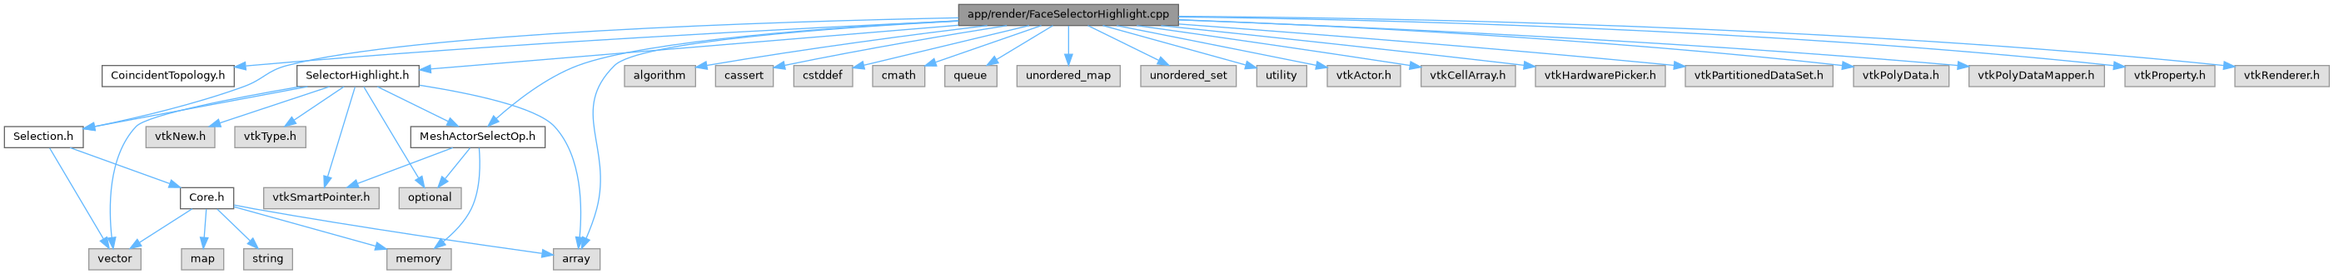
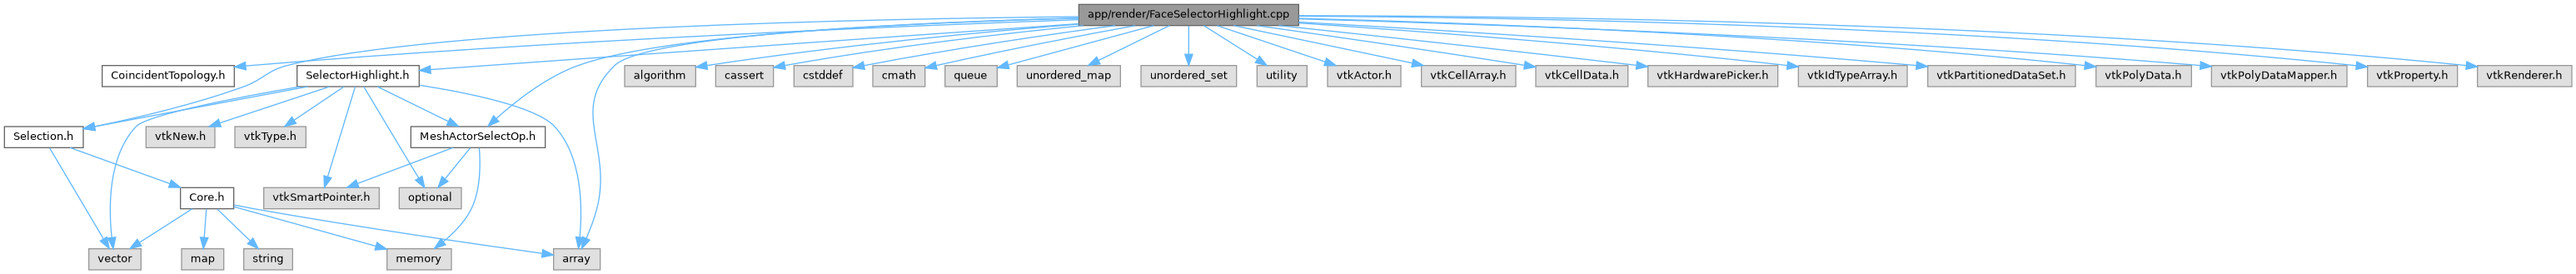
Deploying to gh-pages from @ a-ciue/PreCess@2c03c757ed190177bd64527af9a89cb0c99ad71f 🚀

Changed region(s): [[0.0, 0.0, 1.0, 1.0]]

diff --git a/MeshActor_8h_source.html b/MeshActor_8h_source.html
@@ -195,12 +195,12 @@ $(function() {
 <div class="ttc" id="aIAttributeRenderStrategy_8h_html"><div class="ttname"><a href="IAttributeRenderStrategy_8h.html">IAttributeRenderStrategy.h</a></div></div>
 <div class="ttc" id="aclassAttributeOperator_html"><div class="ttname"><a href="classAttributeOperator.html">AttributeOperator</a></div><div class="ttdoc">属性操作类，提供对MeshActor中各类数据和Mapper、Actor的访问接口</div><div class="ttdef"><b>定义</b> AttributeOperator.h:11</div></div>
 <div class="ttc" id="aclassMeshActorSelectOp_html"><div class="ttname"><a href="classMeshActorSelectOp.html">MeshActorSelectOp</a></div><div class="ttdoc">MeshActor在选择过程中的操作类，作为临时对象使用</div><div class="ttdef"><b>定义</b> MeshActorSelectOp.h:36</div></div>
-<div class="ttc" id="aclassMeshActor_html_a08e40a529ad491478178c2a8c38d1b37"><div class="ttname"><a href="classMeshActor.html#a08e40a529ad491478178c2a8c38d1b37">MeshActor::_createSolidUGird</a></div><div class="ttdeci">static void _createSolidUGird(const MeshDataVtk &amp;model_data, vtkPoints &amp;points, vtkUnstructuredGrid &amp;solid_data)</div><div class="ttdef"><b>定义</b> MeshActor.cpp:390</div></div>
+<div class="ttc" id="aclassMeshActor_html_a08e40a529ad491478178c2a8c38d1b37"><div class="ttname"><a href="classMeshActor.html#a08e40a529ad491478178c2a8c38d1b37">MeshActor::_createSolidUGird</a></div><div class="ttdeci">static void _createSolidUGird(const MeshDataVtk &amp;model_data, vtkPoints &amp;points, vtkUnstructuredGrid &amp;solid_data)</div><div class="ttdef"><b>定义</b> MeshActor.cpp:403</div></div>
 <div class="ttc" id="aclassMeshActor_html_a091cfe29cd9274e75e1f5888de353e0d"><div class="ttname"><a href="classMeshActor.html#a091cfe29cd9274e75e1f5888de353e0d">MeshActor::renderer_</a></div><div class="ttdeci">vtkRenderer * renderer_</div><div class="ttdef"><b>定义</b> MeshActor.h:115</div></div>
 <div class="ttc" id="aclassMeshActor_html_a0d2963941ccf1bb771df32f01a683a74"><div class="ttname"><a href="classMeshActor.html#a0d2963941ccf1bb771df32f01a683a74">MeshActor::MeshActor</a></div><div class="ttdeci">MeshActor(vtkRenderer *renderer, vtkPoints *global_points)</div><div class="ttdef"><b>定义</b> MeshActor.cpp:117</div></div>
 <div class="ttc" id="aclassMeshActor_html_a14a89f48668fa2c4f5b421e9c2e9cda5"><div class="ttname"><a href="classMeshActor.html#a14a89f48668fa2c4f5b421e9c2e9cda5">MeshActor::MeshActorSelectOp</a></div><div class="ttdeci">friend MeshActorSelectOp</div><div class="ttdef"><b>定义</b> MeshActor.h:34</div></div>
 <div class="ttc" id="aclassMeshActor_html_a19805d0c0e844a809f0bbb4e67bd48bf"><div class="ttname"><a href="classMeshActor.html#a19805d0c0e844a809f0bbb4e67bd48bf">MeshActor::edge_clipper_</a></div><div class="ttdeci">vtkNew&lt; vtkExtractPolyDataGeometry &gt; edge_clipper_</div><div class="ttdef"><b>定义</b> MeshActor.h:87</div></div>
-<div class="ttc" id="aclassMeshActor_html_a1b72ea664e95655da04569384dc7f065"><div class="ttname"><a href="classMeshActor.html#a1b72ea664e95655da04569384dc7f065">MeshActor::setRenderStrategy</a></div><div class="ttdeci">void setRenderStrategy(std::unique_ptr&lt; IAttributeRenderStrategy &gt; strategy)</div><div class="ttdoc">设置渲染策略</div><div class="ttdef"><b>定义</b> MeshActor.cpp:444</div></div>
+<div class="ttc" id="aclassMeshActor_html_a1b72ea664e95655da04569384dc7f065"><div class="ttname"><a href="classMeshActor.html#a1b72ea664e95655da04569384dc7f065">MeshActor::setRenderStrategy</a></div><div class="ttdeci">void setRenderStrategy(std::unique_ptr&lt; IAttributeRenderStrategy &gt; strategy)</div><div class="ttdoc">设置渲染策略</div><div class="ttdef"><b>定义</b> MeshActor.cpp:457</div></div>
 <div class="ttc" id="aclassMeshActor_html_a1c92ec567feff7d84e25fd825da2d0af"><div class="ttname"><a href="classMeshActor.html#a1c92ec567feff7d84e25fd825da2d0af">MeshActor::face_cell_centers_</a></div><div class="ttdeci">vtkNew&lt; vtkPolyData &gt; face_cell_centers_</div><div class="ttdef"><b>定义</b> MeshActor.h:109</div></div>
 <div class="ttc" id="aclassMeshActor_html_a1f2a7b61a383143395c2df36655e7a50"><div class="ttname"><a href="classMeshActor.html#a1f2a7b61a383143395c2df36655e7a50">MeshActor::render_strategy_</a></div><div class="ttdeci">std::unique_ptr&lt; IAttributeRenderStrategy &gt; render_strategy_</div><div class="ttdef"><b>定义</b> MeshActor.h:81</div></div>
 <div class="ttc" id="aclassMeshActor_html_a21ef1656d52d5ce899fa1cafe2ea1bd2"><div class="ttname"><a href="classMeshActor.html#a21ef1656d52d5ce899fa1cafe2ea1bd2">MeshActor::~MeshActor</a></div><div class="ttdeci">~MeshActor()</div><div class="ttdef"><b>定义</b> MeshActor.cpp:141</div></div>
@@ -209,21 +209,21 @@ $(function() {
 <div class="ttc" id="aclassMeshActor_html_a3219e67668babcb42b25490ce9cbd757"><div class="ttname"><a href="classMeshActor.html#a3219e67668babcb42b25490ce9cbd757">MeshActor::solid_actor_</a></div><div class="ttdeci">vtkNew&lt; vtkActor &gt; solid_actor_</div><div class="ttdef"><b>定义</b> MeshActor.h:99</div></div>
 <div class="ttc" id="aclassMeshActor_html_a4450097e60e604999bf9895eac4829ef"><div class="ttname"><a href="classMeshActor.html#a4450097e60e604999bf9895eac4829ef">MeshActor::visibility_</a></div><div class="ttdeci">bool visibility_</div><div class="ttdef"><b>定义</b> MeshActor.h:83</div></div>
 <div class="ttc" id="aclassMeshActor_html_a455e99ee83a81dd1c396e0104294f955"><div class="ttname"><a href="classMeshActor.html#a455e99ee83a81dd1c396e0104294f955">MeshActor::solid_edge_extractor_</a></div><div class="ttdeci">vtkNew&lt; vtkExtractEdges &gt; solid_edge_extractor_</div><div class="ttdef"><b>定义</b> MeshActor.h:92</div></div>
-<div class="ttc" id="aclassMeshActor_html_a64c57941dca1731223759b114865d354"><div class="ttname"><a href="classMeshActor.html#a64c57941dca1731223759b114865d354">MeshActor::setRenderStyle</a></div><div class="ttdeci">void setRenderStyle(MeshRenderStyle style)</div><div class="ttdef"><b>定义</b> MeshActor.cpp:282</div></div>
+<div class="ttc" id="aclassMeshActor_html_a64c57941dca1731223759b114865d354"><div class="ttname"><a href="classMeshActor.html#a64c57941dca1731223759b114865d354">MeshActor::setRenderStyle</a></div><div class="ttdeci">void setRenderStyle(MeshRenderStyle style)</div><div class="ttdef"><b>定义</b> MeshActor.cpp:295</div></div>
 <div class="ttc" id="aclassMeshActor_html_a68312c4c4f435e9dcb98ad9c455fecef"><div class="ttname"><a href="classMeshActor.html#a68312c4c4f435e9dcb98ad9c455fecef">MeshActor::face_actor_</a></div><div class="ttdeci">vtkNew&lt; vtkActor &gt; face_actor_</div><div class="ttdef"><b>定义</b> MeshActor.h:100</div></div>
 <div class="ttc" id="aclassMeshActor_html_a697071c9b72ff73137641b9cf68d4ff7"><div class="ttname"><a href="classMeshActor.html#a697071c9b72ff73137641b9cf68d4ff7">MeshActor::solid_clipper_</a></div><div class="ttdeci">vtkNew&lt; vtkExtractGeometry &gt; solid_clipper_</div><div class="ttdef"><b>定义</b> MeshActor.h:89</div></div>
 <div class="ttc" id="aclassMeshActor_html_a70be0e3ea4dc333f6454667209f68f98"><div class="ttname"><a href="classMeshActor.html#a70be0e3ea4dc333f6454667209f68f98">MeshActor::loadModelData</a></div><div class="ttdeci">void loadModelData(const MeshDataVtk &amp;model_data)</div><div class="ttdef"><b>定义</b> MeshActor.cpp:151</div></div>
 <div class="ttc" id="aclassMeshActor_html_a77d183db5363426d681904313ab57144"><div class="ttname"><a href="classMeshActor.html#a77d183db5363426d681904313ab57144">MeshActor::solid_filter_</a></div><div class="ttdeci">vtkNew&lt; vtkGeometryFilter &gt; solid_filter_</div><div class="ttdef"><b>定义</b> MeshActor.h:91</div></div>
 <div class="ttc" id="aclassMeshActor_html_a780070ae950cbd0e2799be889fe9b5f5"><div class="ttname"><a href="classMeshActor.html#a780070ae950cbd0e2799be889fe9b5f5">MeshActor::colors</a></div><div class="ttdeci">static vtkNew&lt; vtkNamedColors &gt; colors</div><div class="ttdef"><b>定义</b> MeshActor.h:39</div></div>
-<div class="ttc" id="aclassMeshActor_html_a7989eba2f4be427fe6f87bdc00e7f670"><div class="ttname"><a href="classMeshActor.html#a7989eba2f4be427fe6f87bdc00e7f670">MeshActor::renderAttribute</a></div><div class="ttdeci">void renderAttribute(const std::string &amp;attr_name, std::map&lt; std::string, std::any &gt; args)</div><div class="ttdoc">渲染属性</div><div class="ttdef"><b>定义</b> MeshActor.cpp:449</div></div>
+<div class="ttc" id="aclassMeshActor_html_a7989eba2f4be427fe6f87bdc00e7f670"><div class="ttname"><a href="classMeshActor.html#a7989eba2f4be427fe6f87bdc00e7f670">MeshActor::renderAttribute</a></div><div class="ttdeci">void renderAttribute(const std::string &amp;attr_name, std::map&lt; std::string, std::any &gt; args)</div><div class="ttdoc">渲染属性</div><div class="ttdef"><b>定义</b> MeshActor.cpp:462</div></div>
 <div class="ttc" id="aclassMeshActor_html_a85f7b5b251069428e1ee0a8da09c7b27"><div class="ttname"><a href="classMeshActor.html#a85f7b5b251069428e1ee0a8da09c7b27">MeshActor::solid_data_</a></div><div class="ttdeci">vtkNew&lt; vtkUnstructuredGrid &gt; solid_data_</div><div class="ttdef"><b>定义</b> MeshActor.h:104</div></div>
-<div class="ttc" id="aclassMeshActor_html_a870cd1059f6d3e15b5ca4681cc4762dc"><div class="ttname"><a href="classMeshActor.html#a870cd1059f6d3e15b5ca4681cc4762dc">MeshActor::setClipPlane</a></div><div class="ttdeci">void setClipPlane(vtkPlane *plane)</div><div class="ttdoc">设置或取消裁剪平面</div><div class="ttdef"><b>定义</b> MeshActor.cpp:259</div></div>
+<div class="ttc" id="aclassMeshActor_html_a870cd1059f6d3e15b5ca4681cc4762dc"><div class="ttname"><a href="classMeshActor.html#a870cd1059f6d3e15b5ca4681cc4762dc">MeshActor::setClipPlane</a></div><div class="ttdeci">void setClipPlane(vtkPlane *plane)</div><div class="ttdoc">设置或取消裁剪平面</div><div class="ttdef"><b>定义</b> MeshActor.cpp:272</div></div>
 <div class="ttc" id="aclassMeshActor_html_a91bee7bb17cd1d38a1dfc29296b6ecf6"><div class="ttname"><a href="classMeshActor.html#a91bee7bb17cd1d38a1dfc29296b6ecf6">MeshActor::original_point_ids_</a></div><div class="ttdeci">vtkNew&lt; vtkIdTypeArray &gt; original_point_ids_</div><div class="ttdef"><b>定义</b> MeshActor.h:118</div></div>
 <div class="ttc" id="aclassMeshActor_html_a9ff1e5f70b3cf8a2ab4cb14f55e47532"><div class="ttname"><a href="classMeshActor.html#a9ff1e5f70b3cf8a2ab4cb14f55e47532">MeshActor::solid_cell_centers_</a></div><div class="ttdeci">vtkNew&lt; vtkPolyData &gt; solid_cell_centers_</div><div class="ttdef"><b>定义</b> MeshActor.h:111</div></div>
 <div class="ttc" id="aclassMeshActor_html_aa41c3951fe0448bf88ba389b30a7357c"><div class="ttname"><a href="classMeshActor.html#aa41c3951fe0448bf88ba389b30a7357c">MeshActor::face_attribute_offset_</a></div><div class="ttdeci">FaceAttributeOffsetState face_attribute_offset_</div><div class="ttdef"><b>定义</b> MeshActor.h:113</div></div>
-<div class="ttc" id="aclassMeshActor_html_ab0a3a1a69b1c3b4fe0d1bf539874baf4"><div class="ttname"><a href="classMeshActor.html#ab0a3a1a69b1c3b4fe0d1bf539874baf4">MeshActor::getRenderStyle</a></div><div class="ttdeci">MeshRenderStyle getRenderStyle() const</div><div class="ttdef"><b>定义</b> MeshActor.cpp:288</div></div>
+<div class="ttc" id="aclassMeshActor_html_ab0a3a1a69b1c3b4fe0d1bf539874baf4"><div class="ttname"><a href="classMeshActor.html#ab0a3a1a69b1c3b4fe0d1bf539874baf4">MeshActor::getRenderStyle</a></div><div class="ttdeci">MeshRenderStyle getRenderStyle() const</div><div class="ttdef"><b>定义</b> MeshActor.cpp:301</div></div>
 <div class="ttc" id="aclassMeshActor_html_ab0bc13100593d5a6e211fb88fc51ebcf"><div class="ttname"><a href="classMeshActor.html#ab0bc13100593d5a6e211fb88fc51ebcf">MeshActor::edge_mapper_</a></div><div class="ttdeci">vtkNew&lt; vtkPolyDataMapper &gt; edge_mapper_</div><div class="ttdef"><b>定义</b> MeshActor.h:94</div></div>
-<div class="ttc" id="aclassMeshActor_html_ab282e66574859c8e77ed021be2903cfa"><div class="ttname"><a href="classMeshActor.html#ab282e66574859c8e77ed021be2903cfa">MeshActor::isVisible</a></div><div class="ttdeci">bool isVisible() const</div><div class="ttdef"><b>定义</b> MeshActor.cpp:254</div></div>
+<div class="ttc" id="aclassMeshActor_html_ab282e66574859c8e77ed021be2903cfa"><div class="ttname"><a href="classMeshActor.html#ab282e66574859c8e77ed021be2903cfa">MeshActor::isVisible</a></div><div class="ttdeci">bool isVisible() const</div><div class="ttdef"><b>定义</b> MeshActor.cpp:267</div></div>
 <div class="ttc" id="aclassMeshActor_html_ac1012183fbcf30628db40de715822957"><div class="ttname"><a href="classMeshActor.html#ac1012183fbcf30628db40de715822957">MeshActor::edge_actor_</a></div><div class="ttdeci">vtkNew&lt; vtkActor &gt; edge_actor_</div><div class="ttdef"><b>定义</b> MeshActor.h:101</div></div>
 <div class="ttc" id="aclassMeshActor_html_ac25f309b6193f4dee2fc8b15286bf4e4"><div class="ttname"><a href="classMeshActor.html#ac25f309b6193f4dee2fc8b15286bf4e4">MeshActor::model_data_</a></div><div class="ttdeci">std::unique_ptr&lt; MeshDataVtk &gt; model_data_</div><div class="ttdef"><b>定义</b> MeshActor.h:84</div></div>
 <div class="ttc" id="aclassMeshActor_html_ac380af301cd858ea21543c6776a24e14"><div class="ttname"><a href="classMeshActor.html#ac380af301cd858ea21543c6776a24e14">MeshActor::randomSequence</a></div><div class="ttdeci">static vtkNew&lt; vtkMinimalStandardRandomSequence &gt; randomSequence</div><div class="ttdef"><b>定义</b> MeshActor.h:38</div></div>
@@ -232,13 +232,13 @@ $(function() {
 <div class="ttc" id="aclassMeshActor_html_ace16406699e97aad5866e3e3b97c0eb5"><div class="ttname"><a href="classMeshActor.html#ace16406699e97aad5866e3e3b97c0eb5">MeshActor::face_clipper_</a></div><div class="ttdeci">vtkNew&lt; vtkExtractPolyDataGeometry &gt; face_clipper_</div><div class="ttdef"><b>定义</b> MeshActor.h:88</div></div>
 <div class="ttc" id="aclassMeshActor_html_ad45e336f5faa03a16caab4b00f840683"><div class="ttname"><a href="classMeshActor.html#ad45e336f5faa03a16caab4b00f840683">MeshActor::glyph3D_actor_</a></div><div class="ttdeci">vtkNew&lt; vtkActor &gt; glyph3D_actor_</div><div class="ttdef"><b>定义</b> MeshActor.h:102</div></div>
 <div class="ttc" id="aclassMeshActor_html_ad5804447e55239cf19a4d4713d4f18c1"><div class="ttname"><a href="classMeshActor.html#ad5804447e55239cf19a4d4713d4f18c1">MeshActor::AttributeOperator</a></div><div class="ttdeci">friend AttributeOperator</div><div class="ttdef"><b>定义</b> MeshActor.h:35</div></div>
-<div class="ttc" id="aclassMeshActor_html_ad6323d9128d99c7a608a7913bfc496da"><div class="ttname"><a href="classMeshActor.html#ad6323d9128d99c7a608a7913bfc496da">MeshActor::ensureOriginalPointIds</a></div><div class="ttdeci">void ensureOriginalPointIds()</div><div class="ttdef"><b>定义</b> MeshActor.cpp:459</div></div>
+<div class="ttc" id="aclassMeshActor_html_ad6323d9128d99c7a608a7913bfc496da"><div class="ttname"><a href="classMeshActor.html#ad6323d9128d99c7a608a7913bfc496da">MeshActor::ensureOriginalPointIds</a></div><div class="ttdeci">void ensureOriginalPointIds()</div><div class="ttdef"><b>定义</b> MeshActor.cpp:472</div></div>
 <div class="ttc" id="aclassMeshActor_html_adc5a88c786013abf18f4244fbf9ed74a"><div class="ttname"><a href="classMeshActor.html#adc5a88c786013abf18f4244fbf9ed74a">MeshActor::style_</a></div><div class="ttdeci">MeshRenderStyle style_</div><div class="ttdef"><b>定义</b> MeshActor.h:82</div></div>
-<div class="ttc" id="aclassMeshActor_html_adf6ab9d3e2278feb471c0fd00f6e8806"><div class="ttname"><a href="classMeshActor.html#adf6ab9d3e2278feb471c0fd00f6e8806">MeshActor::setVisibility</a></div><div class="ttdeci">void setVisibility(bool visibility)</div><div class="ttdef"><b>定义</b> MeshActor.cpp:248</div></div>
-<div class="ttc" id="aclassMeshActor_html_adfebe3e1e9a07ae8ed70461a91a20d91"><div class="ttname"><a href="classMeshActor.html#adfebe3e1e9a07ae8ed70461a91a20d91">MeshActor::applyStyle</a></div><div class="ttdeci">void applyStyle()</div><div class="ttdef"><b>定义</b> MeshActor.cpp:293</div></div>
+<div class="ttc" id="aclassMeshActor_html_adf6ab9d3e2278feb471c0fd00f6e8806"><div class="ttname"><a href="classMeshActor.html#adf6ab9d3e2278feb471c0fd00f6e8806">MeshActor::setVisibility</a></div><div class="ttdeci">void setVisibility(bool visibility)</div><div class="ttdef"><b>定义</b> MeshActor.cpp:261</div></div>
+<div class="ttc" id="aclassMeshActor_html_adfebe3e1e9a07ae8ed70461a91a20d91"><div class="ttname"><a href="classMeshActor.html#adfebe3e1e9a07ae8ed70461a91a20d91">MeshActor::applyStyle</a></div><div class="ttdeci">void applyStyle()</div><div class="ttdef"><b>定义</b> MeshActor.cpp:306</div></div>
 <div class="ttc" id="aclassMeshActor_html_aeea019c4c105bbd7e7b37f2e1043c6a3"><div class="ttname"><a href="classMeshActor.html#aeea019c4c105bbd7e7b37f2e1043c6a3">MeshActor::edge_data_</a></div><div class="ttdeci">vtkNew&lt; vtkPolyData &gt; edge_data_</div><div class="ttdef"><b>定义</b> MeshActor.h:106</div></div>
 <div class="ttc" id="aclassMeshActor_html_aef69d9e95a452055e5c9f268b386a933"><div class="ttname"><a href="classMeshActor.html#aef69d9e95a452055e5c9f268b386a933">MeshActor::clip_plane_</a></div><div class="ttdeci">vtkPlane * clip_plane_</div><div class="ttdef"><b>定义</b> MeshActor.h:86</div></div>
-<div class="ttc" id="aclassMeshActor_html_afa6c6e17e6a1d5c6abf292f4780ace5f"><div class="ttname"><a href="classMeshActor.html#afa6c6e17e6a1d5c6abf292f4780ace5f">MeshActor::cancelActiveAttribute</a></div><div class="ttdeci">void cancelActiveAttribute()</div><div class="ttdoc">取消属性渲染</div><div class="ttdef"><b>定义</b> MeshActor.cpp:436</div></div>
+<div class="ttc" id="aclassMeshActor_html_afa6c6e17e6a1d5c6abf292f4780ace5f"><div class="ttname"><a href="classMeshActor.html#afa6c6e17e6a1d5c6abf292f4780ace5f">MeshActor::cancelActiveAttribute</a></div><div class="ttdeci">void cancelActiveAttribute()</div><div class="ttdoc">取消属性渲染</div><div class="ttdef"><b>定义</b> MeshActor.cpp:449</div></div>
 <div class="ttc" id="aclassMeshActor_html_afc7ff6f3770c7a24f6cf6569416c31c1"><div class="ttname"><a href="classMeshActor.html#afc7ff6f3770c7a24f6cf6569416c31c1">MeshActor::global_points_</a></div><div class="ttdeci">vtkPoints * global_points_</div><div class="ttdef"><b>定义</b> MeshActor.h:117</div></div>
 <div class="ttc" id="astructFaceAttributeOffsetState_html"><div class="ttname"><a href="structFaceAttributeOffsetState.html">FaceAttributeOffsetState</a></div><div class="ttdef"><b>定义</b> MeshActor.h:26</div></div>
 <div class="ttc" id="astructFaceAttributeOffsetState_html_a14c9b6dd916114728a521eb571e829d7"><div class="ttname"><a href="structFaceAttributeOffsetState.html#a14c9b6dd916114728a521eb571e829d7">FaceAttributeOffsetState::units</a></div><div class="ttdeci">double units</div><div class="ttdef"><b>定义</b> MeshActor.h:29</div></div>

diff --git a/SelectorHighlight_8h_source.html b/SelectorHighlight_8h_source.html
@@ -268,23 +268,23 @@ $(function() {
 <div class="ttc" id="aclassEdgeSelectorHighlight_html_af71996a5002742103866e5c826479d0f"><div class="ttname"><a href="classEdgeSelectorHighlight.html#af71996a5002742103866e5c826479d0f">EdgeSelectorHighlight::clear</a></div><div class="ttdeci">void clear() override</div><div class="ttdoc">清空选中元素，并取消高亮</div><div class="ttdef"><b>定义</b> EdgeSelectorHighlight.cpp:70</div></div>
 <div class="ttc" id="aclassEdgeSelectorHighlight_html_afa6bafa87e80b347e5c5c03124dce5e7"><div class="ttname"><a href="classEdgeSelectorHighlight.html#afa6bafa87e80b347e5c5c03124dce5e7">EdgeSelectorHighlight::select</a></div><div class="ttdeci">void select(double posx, double posy) override</div><div class="ttdef"><b>定义</b> EdgeSelectorHighlight.cpp:118</div></div>
 <div class="ttc" id="aclassEdgeSelectorHighlight_html_afdb85c28368cd8fcdf956cfcf34e693e"><div class="ttname"><a href="classEdgeSelectorHighlight.html#afdb85c28368cd8fcdf956cfcf34e693e">EdgeSelectorHighlight::~EdgeSelectorHighlight</a></div><div class="ttdeci">~EdgeSelectorHighlight() override</div><div class="ttdef"><b>定义</b> EdgeSelectorHighlight.cpp:65</div></div>
-<div class="ttc" id="aclassFaceSelectorHighlight_html_a0ce421062d227f6ad53c9f5d9d9b61ff"><div class="ttname"><a href="classFaceSelectorHighlight.html#a0ce421062d227f6ad53c9f5d9d9b61ff">FaceSelectorHighlight::enableHighlight</a></div><div class="ttdeci">void enableHighlight() override</div><div class="ttdoc">从保留的选择数据重新下发 partition 高亮</div><div class="ttdef"><b>定义</b> FaceSelectorHighlight.cpp:235</div></div>
+<div class="ttc" id="aclassFaceSelectorHighlight_html_a0ce421062d227f6ad53c9f5d9d9b61ff"><div class="ttname"><a href="classFaceSelectorHighlight.html#a0ce421062d227f6ad53c9f5d9d9b61ff">FaceSelectorHighlight::enableHighlight</a></div><div class="ttdeci">void enableHighlight() override</div><div class="ttdoc">从保留的选择数据重新下发 partition 高亮</div><div class="ttdef"><b>定义</b> FaceSelectorHighlight.cpp:249</div></div>
 <div class="ttc" id="aclassFaceSelectorHighlight_html_a30cb9cb2a9e59ebf48b34a489085f47d"><div class="ttname"><a href="classFaceSelectorHighlight.html#a30cb9cb2a9e59ebf48b34a489085f47d">FaceSelectorHighlight::select_op_</a></div><div class="ttdeci">MeshActorSelectOp select_op_</div><div class="ttdef"><b>定义</b> SelectorHighlight.h:97</div></div>
 <div class="ttc" id="aclassFaceSelectorHighlight_html_a39cb03cd871d60daf5de04c621108e0a"><div class="ttname"><a href="classFaceSelectorHighlight.html#a39cb03cd871d60daf5de04c621108e0a">FaceSelectorHighlight::selections_poly_</a></div><div class="ttdeci">vtkSmartPointer&lt; vtkPolyData &gt; selections_poly_</div><div class="ttdef"><b>定义</b> SelectorHighlight.h:103</div></div>
-<div class="ttc" id="aclassFaceSelectorHighlight_html_a4b4231e002e29032e14025326d816ed7"><div class="ttname"><a href="classFaceSelectorHighlight.html#a4b4231e002e29032e14025326d816ed7">FaceSelectorHighlight::disableHighlight</a></div><div class="ttdeci">void disableHighlight() override</div><div class="ttdoc">仅清除 partition 高亮数据，保留内部选择数据</div><div class="ttdef"><b>定义</b> FaceSelectorHighlight.cpp:229</div></div>
+<div class="ttc" id="aclassFaceSelectorHighlight_html_a4b4231e002e29032e14025326d816ed7"><div class="ttname"><a href="classFaceSelectorHighlight.html#a4b4231e002e29032e14025326d816ed7">FaceSelectorHighlight::disableHighlight</a></div><div class="ttdeci">void disableHighlight() override</div><div class="ttdoc">仅清除 partition 高亮数据，保留内部选择数据</div><div class="ttdef"><b>定义</b> FaceSelectorHighlight.cpp:243</div></div>
 <div class="ttc" id="aclassFaceSelectorHighlight_html_a4bee3613c89a8df79c64e70f0aa94b6e"><div class="ttname"><a href="classFaceSelectorHighlight.html#a4bee3613c89a8df79c64e70f0aa94b6e">FaceSelectorHighlight::spread_options_</a></div><div class="ttdeci">FaceSelectionSpreadOptions spread_options_</div><div class="ttdef"><b>定义</b> SelectorHighlight.h:101</div></div>
 <div class="ttc" id="aclassFaceSelectorHighlight_html_a54a52b15a9071f9dbcbc33623fda24fa"><div class="ttname"><a href="classFaceSelectorHighlight.html#a54a52b15a9071f9dbcbc33623fda24fa">FaceSelectorHighlight::highlight_data_</a></div><div class="ttdeci">vtkPartitionedDataSet * highlight_data_</div><div class="ttdef"><b>定义</b> SelectorHighlight.h:98</div></div>
 <div class="ttc" id="aclassFaceSelectorHighlight_html_a5fb7974e530c15304dc657184cdcdd7d"><div class="ttname"><a href="classFaceSelectorHighlight.html#a5fb7974e530c15304dc657184cdcdd7d">FaceSelectorHighlight::spread_cache_</a></div><div class="ttdeci">FaceSpreadCache spread_cache_</div><div class="ttdef"><b>定义</b> SelectorHighlight.h:102</div></div>
-<div class="ttc" id="aclassFaceSelectorHighlight_html_a68126ce958a1798d371dd7ca8cb4d008"><div class="ttname"><a href="classFaceSelectorHighlight.html#a68126ce958a1798d371dd7ca8cb4d008">FaceSelectorHighlight::clear</a></div><div class="ttdeci">void clear() override</div><div class="ttdoc">清空选中元素，并取消高亮</div><div class="ttdef"><b>定义</b> FaceSelectorHighlight.cpp:223</div></div>
-<div class="ttc" id="aclassFaceSelectorHighlight_html_a83f58e0e8e4ac3f7120f5449699af1be"><div class="ttname"><a href="classFaceSelectorHighlight.html#a83f58e0e8e4ac3f7120f5449699af1be">FaceSelectorHighlight::updateSpreadCache</a></div><div class="ttdeci">void updateSpreadCache(vtkPolyData &amp;poly)</div><div class="ttdoc">当面数据发生变化时重建角度扩散缓存</div><div class="ttdef"><b>定义</b> FaceSelectorHighlight.cpp:264</div></div>
-<div class="ttc" id="aclassFaceSelectorHighlight_html_a95143147ea3d17c3842ddc37bccaaae0"><div class="ttname"><a href="classFaceSelectorHighlight.html#a95143147ea3d17c3842ddc37bccaaae0">FaceSelectorHighlight::~FaceSelectorHighlight</a></div><div class="ttdeci">~FaceSelectorHighlight() override</div><div class="ttdef"><b>定义</b> FaceSelectorHighlight.cpp:206</div></div>
-<div class="ttc" id="aclassFaceSelectorHighlight_html_aa76562ed0c1c967d69f226ad2719ff6a"><div class="ttname"><a href="classFaceSelectorHighlight.html#aa76562ed0c1c967d69f226ad2719ff6a">FaceSelectorHighlight::get</a></div><div class="ttdeci">SelectionVtk get() override</div><div class="ttdef"><b>定义</b> FaceSelectorHighlight.cpp:211</div></div>
-<div class="ttc" id="aclassFaceSelectorHighlight_html_aace8feb95c02fb87dac0994478ba8989"><div class="ttname"><a href="classFaceSelectorHighlight.html#aace8feb95c02fb87dac0994478ba8989">FaceSelectorHighlight::select</a></div><div class="ttdeci">void select(double posx, double posy) override</div><div class="ttdef"><b>定义</b> FaceSelectorHighlight.cpp:278</div></div>
+<div class="ttc" id="aclassFaceSelectorHighlight_html_a68126ce958a1798d371dd7ca8cb4d008"><div class="ttname"><a href="classFaceSelectorHighlight.html#a68126ce958a1798d371dd7ca8cb4d008">FaceSelectorHighlight::clear</a></div><div class="ttdeci">void clear() override</div><div class="ttdoc">清空选中元素，并取消高亮</div><div class="ttdef"><b>定义</b> FaceSelectorHighlight.cpp:237</div></div>
+<div class="ttc" id="aclassFaceSelectorHighlight_html_a83f58e0e8e4ac3f7120f5449699af1be"><div class="ttname"><a href="classFaceSelectorHighlight.html#a83f58e0e8e4ac3f7120f5449699af1be">FaceSelectorHighlight::updateSpreadCache</a></div><div class="ttdeci">void updateSpreadCache(vtkPolyData &amp;poly)</div><div class="ttdoc">当面数据发生变化时重建角度扩散缓存</div><div class="ttdef"><b>定义</b> FaceSelectorHighlight.cpp:278</div></div>
+<div class="ttc" id="aclassFaceSelectorHighlight_html_a95143147ea3d17c3842ddc37bccaaae0"><div class="ttname"><a href="classFaceSelectorHighlight.html#a95143147ea3d17c3842ddc37bccaaae0">FaceSelectorHighlight::~FaceSelectorHighlight</a></div><div class="ttdeci">~FaceSelectorHighlight() override</div><div class="ttdef"><b>定义</b> FaceSelectorHighlight.cpp:208</div></div>
+<div class="ttc" id="aclassFaceSelectorHighlight_html_aa76562ed0c1c967d69f226ad2719ff6a"><div class="ttname"><a href="classFaceSelectorHighlight.html#aa76562ed0c1c967d69f226ad2719ff6a">FaceSelectorHighlight::get</a></div><div class="ttdeci">SelectionVtk get() override</div><div class="ttdef"><b>定义</b> FaceSelectorHighlight.cpp:213</div></div>
+<div class="ttc" id="aclassFaceSelectorHighlight_html_aace8feb95c02fb87dac0994478ba8989"><div class="ttname"><a href="classFaceSelectorHighlight.html#aace8feb95c02fb87dac0994478ba8989">FaceSelectorHighlight::select</a></div><div class="ttdeci">void select(double posx, double posy) override</div><div class="ttdef"><b>定义</b> FaceSelectorHighlight.cpp:292</div></div>
 <div class="ttc" id="aclassFaceSelectorHighlight_html_ab8d0d0753dc16b36001c60b8a459e211"><div class="ttname"><a href="classFaceSelectorHighlight.html#ab8d0d0753dc16b36001c60b8a459e211">FaceSelectorHighlight::renderer_</a></div><div class="ttdeci">vtkRenderer * renderer_</div><div class="ttdef"><b>定义</b> SelectorHighlight.h:96</div></div>
 <div class="ttc" id="aclassFaceSelectorHighlight_html_ac7d3c2828c9d4e05422872a64171d0da"><div class="ttname"><a href="classFaceSelectorHighlight.html#ac7d3c2828c9d4e05422872a64171d0da">FaceSelectorHighlight::partition_id_</a></div><div class="ttdeci">unsigned int partition_id_</div><div class="ttdef"><b>定义</b> SelectorHighlight.h:99</div></div>
-<div class="ttc" id="aclassFaceSelectorHighlight_html_ac9e8d65aa60dd5c48362ea95a0a2ca5f"><div class="ttname"><a href="classFaceSelectorHighlight.html#ac9e8d65aa60dd5c48362ea95a0a2ca5f">FaceSelectorHighlight::FaceSelectorHighlight</a></div><div class="ttdeci">FaceSelectorHighlight(vtkRenderer &amp;renderer, vtkPartitionedDataSet &amp;highlight_data, unsigned int partition_id, MeshActorSelectOp select_op)</div><div class="ttdef"><b>定义</b> FaceSelectorHighlight.cpp:195</div></div>
-<div class="ttc" id="aclassFaceSelectorHighlight_html_ae7444e5b03d931369cd1b0b4b89fdb50"><div class="ttname"><a href="classFaceSelectorHighlight.html#ae7444e5b03d931369cd1b0b4b89fdb50">FaceSelectorHighlight::setupHighlightStyle</a></div><div class="ttdeci">static void setupHighlightStyle(vtkActor &amp;actor, vtkMapper &amp;mapper)</div><div class="ttdef"><b>定义</b> FaceSelectorHighlight.cpp:321</div></div>
-<div class="ttc" id="aclassFaceSelectorHighlight_html_aee117bfc67f837efc4fba8484ef695de"><div class="ttname"><a href="classFaceSelectorHighlight.html#aee117bfc67f837efc4fba8484ef695de">FaceSelectorHighlight::setSpreadOptions</a></div><div class="ttdeci">void setSpreadOptions(FaceSelectionSpreadOptions options)</div><div class="ttdoc">设置面选择的扩散开关和角度阈值</div><div class="ttdef"><b>定义</b> FaceSelectorHighlight.cpp:316</div></div>
+<div class="ttc" id="aclassFaceSelectorHighlight_html_ac9e8d65aa60dd5c48362ea95a0a2ca5f"><div class="ttname"><a href="classFaceSelectorHighlight.html#ac9e8d65aa60dd5c48362ea95a0a2ca5f">FaceSelectorHighlight::FaceSelectorHighlight</a></div><div class="ttdeci">FaceSelectorHighlight(vtkRenderer &amp;renderer, vtkPartitionedDataSet &amp;highlight_data, unsigned int partition_id, MeshActorSelectOp select_op)</div><div class="ttdef"><b>定义</b> FaceSelectorHighlight.cpp:197</div></div>
+<div class="ttc" id="aclassFaceSelectorHighlight_html_ae7444e5b03d931369cd1b0b4b89fdb50"><div class="ttname"><a href="classFaceSelectorHighlight.html#ae7444e5b03d931369cd1b0b4b89fdb50">FaceSelectorHighlight::setupHighlightStyle</a></div><div class="ttdeci">static void setupHighlightStyle(vtkActor &amp;actor, vtkMapper &amp;mapper)</div><div class="ttdef"><b>定义</b> FaceSelectorHighlight.cpp:335</div></div>
+<div class="ttc" id="aclassFaceSelectorHighlight_html_aee117bfc67f837efc4fba8484ef695de"><div class="ttname"><a href="classFaceSelectorHighlight.html#aee117bfc67f837efc4fba8484ef695de">FaceSelectorHighlight::setSpreadOptions</a></div><div class="ttdeci">void setSpreadOptions(FaceSelectionSpreadOptions options)</div><div class="ttdoc">设置面选择的扩散开关和角度阈值</div><div class="ttdef"><b>定义</b> FaceSelectorHighlight.cpp:330</div></div>
 <div class="ttc" id="aclassFaceSelectorHighlight_html_afb6f684b325526cc0658fc957718a9af"><div class="ttname"><a href="classFaceSelectorHighlight.html#afb6f684b325526cc0658fc957718a9af">FaceSelectorHighlight::selections_</a></div><div class="ttdeci">std::vector&lt; vtkIdType &gt; selections_</div><div class="ttdef"><b>定义</b> SelectorHighlight.h:100</div></div>
 <div class="ttc" id="aclassIMeshIdQuery_html"><div class="ttname"><a href="classIMeshIdQuery.html">IMeshIdQuery</a></div><div class="ttdef"><b>定义</b> MeshIdQuery.h:14</div></div>
 <div class="ttc" id="aclassMeshActorSelectOp_html"><div class="ttname"><a href="classMeshActorSelectOp.html">MeshActorSelectOp</a></div><div class="ttdoc">MeshActor在选择过程中的操作类，作为临时对象使用</div><div class="ttdef"><b>定义</b> MeshActorSelectOp.h:36</div></div>

diff --git a/FaceSelectorHighlight_8cpp.html b/FaceSelectorHighlight_8cpp.html
@@ -94,7 +94,9 @@ $(function() {
 <code>#include &lt;utility&gt;</code><br />
 <code>#include &lt;vtkActor.h&gt;</code><br />
 <code>#include &lt;vtkCellArray.h&gt;</code><br />
+<code>#include &lt;vtkCellData.h&gt;</code><br />
 <code>#include &lt;vtkHardwarePicker.h&gt;</code><br />
+<code>#include &lt;vtkIdTypeArray.h&gt;</code><br />
 <code>#include &lt;vtkPartitionedDataSet.h&gt;</code><br />
 <code>#include &lt;vtkPolyData.h&gt;</code><br />
 <code>#include &lt;vtkPolyDataMapper.h&gt;</code><br />
@@ -105,49 +107,53 @@ FaceSelectorHighlight.cpp 的引用(Include)关系图:</div>
 <div class="dyncontent">
 <div class="center"><img src="FaceSelectorHighlight_8cpp__incl.png" border="0" usemap="#aapp_2render_2FaceSelectorHighlight_8cpp" loading="lazy" alt=""/></div>
 <map name="aapp_2render_2FaceSelectorHighlight_8cpp" id="aapp_2render_2FaceSelectorHighlight_8cpp">
-<area shape="rect" title=" " alt="" coords="1151,5,1415,31"/>
+<area shape="rect" title=" " alt="" coords="1295,5,1559,31"/>
 <area shape="rect" href="CoincidentTopology_8h.html" title=" " alt="" coords="123,79,281,104"/>
-<area shape="poly" title=" " alt="" coords="1151,28,769,48,301,81,296,82,295,76,300,76,769,42,1151,22"/>
+<area shape="poly" title=" " alt="" coords="1295,26,854,45,578,61,301,81,296,82,295,76,300,76,578,56,854,40,1295,21"/>
 <area shape="rect" href="MeshActorSelectOp_8h.html" title=" " alt="" coords="493,152,655,177"/>
-<area shape="poly" title=" " alt="" coords="1151,27,898,46,779,61,731,71,695,81,667,94,641,111,598,145,594,140,638,106,664,89,693,76,730,65,778,56,897,41,1151,22"/>
+<area shape="poly" title=" " alt="" coords="1295,24,1140,30,967,40,808,57,744,68,695,81,667,94,641,110,598,144,594,140,637,106,664,89,693,76,743,63,807,51,967,35,1140,24,1295,19"/>
 <area shape="rect" href="Selection_8h.html" title=" " alt="" coords="5,152,100,177"/>
-<area shape="poly" title=" " alt="" coords="1151,24,953,29,721,40,502,56,413,68,345,81,320,93,294,106,200,135,114,155,113,149,199,130,292,102,317,88,344,76,412,63,502,51,720,34,953,24,1151,19"/>
+<area shape="poly" title=" " alt="" coords="1295,23,1067,26,793,36,533,53,426,66,345,81,320,93,294,106,200,135,114,155,113,149,199,130,292,102,317,88,344,76,425,60,532,48,793,30,1067,21,1295,17"/>
 <area shape="rect" title=" " alt="" coords="665,299,721,324"/>
-<area shape="poly" title=" " alt="" coords="1151,28,1027,36,899,47,794,62,759,71,740,81,724,100,717,119,715,137,717,157,723,200,724,224,719,251,707,287,702,285,714,250,718,224,718,200,711,157,710,137,712,117,720,97,736,77,757,66,793,57,898,42,1026,30,1151,23"/>
+<area shape="poly" title=" " alt="" coords="1295,25,1134,30,961,41,815,57,766,68,740,81,724,100,717,118,715,137,716,156,723,200,724,224,719,251,707,287,702,285,714,250,718,224,718,200,711,157,709,137,711,117,720,97,736,77,765,63,815,52,960,35,1134,25,1295,19"/>
 <area shape="rect" href="SelectorHighlight_8h.html" title=" " alt="" coords="357,79,503,104"/>
-<area shape="poly" title=" " alt="" coords="1151,33,518,85,517,80,1151,28"/>
+<area shape="poly" title=" " alt="" coords="1295,31,585,81,517,86,517,81,584,76,1295,26"/>
 <area shape="rect" title=" " alt="" coords="750,79,835,104"/>
-<area shape="poly" title=" " alt="" coords="1186,33,1032,53,849,81,849,76,1031,48,1185,28"/>
+<area shape="poly" title=" " alt="" coords="1295,32,1090,51,849,81,849,76,1089,45,1295,26"/>
 <area shape="rect" title=" " alt="" coords="859,79,929,104"/>
-<area shape="poly" title=" " alt="" coords="1210,33,943,81,942,76,1209,28"/>
+<area shape="poly" title=" " alt="" coords="1301,33,1134,52,943,81,942,76,1134,47,1300,28"/>
 <area shape="rect" title=" " alt="" coords="953,79,1024,104"/>
-<area shape="poly" title=" " alt="" coords="1237,33,1038,81,1037,76,1235,28"/>
+<area shape="poly" title=" " alt="" coords="1339,33,1202,53,1038,81,1037,76,1201,48,1339,28"/>
 <area shape="rect" title=" " alt="" coords="1048,79,1111,104"/>
-<area shape="poly" title=" " alt="" coords="1251,33,1124,77,1123,72,1250,28"/>
+<area shape="poly" title=" " alt="" coords="1364,33,1125,81,1124,76,1363,28"/>
 <area shape="rect" title=" " alt="" coords="1135,79,1197,104"/>
-<area shape="poly" title=" " alt="" coords="1266,33,1198,74,1196,69,1263,28"/>
+<area shape="poly" title=" " alt="" coords="1386,33,1211,81,1210,75,1385,28"/>
 <area shape="rect" title=" " alt="" coords="1221,79,1345,104"/>
-<area shape="poly" title=" " alt="" coords="1286,31,1286,65,1281,65,1281,31"/>
+<area shape="poly" title=" " alt="" coords="1405,33,1320,75,1318,70,1403,28"/>
 <area shape="rect" title=" " alt="" coords="1370,79,1485,104"/>
-<area shape="poly" title=" " alt="" coords="1308,28,1393,70,1390,75,1305,33"/>
+<area shape="poly" title=" " alt="" coords="1430,31,1430,65,1425,65,1425,31"/>
 <area shape="rect" title=" " alt="" coords="1509,79,1569,104"/>
-<area shape="poly" title=" " alt="" coords="1325,28,1497,75,1495,81,1324,33"/>
+<area shape="poly" title=" " alt="" coords="1447,28,1511,69,1508,73,1444,33"/>
 <area shape="rect" title=" " alt="" coords="1594,79,1682,104"/>
-<area shape="poly" title=" " alt="" coords="1342,28,1581,76,1580,81,1341,33"/>
+<area shape="poly" title=" " alt="" coords="1462,28,1592,72,1590,77,1460,33"/>
 <area shape="rect" title=" " alt="" coords="1707,79,1820,104"/>
-<area shape="poly" title=" " alt="" coords="1366,28,1694,76,1693,81,1365,33"/>
-<area shape="rect" title=" " alt="" coords="1844,79,2000,104"/>
-<area shape="poly" title=" " alt="" coords="1395,28,1830,76,1830,81,1394,33"/>
-<area shape="rect" title=" " alt="" coords="2024,79,2201,104"/>
-<area shape="poly" title=" " alt="" coords="1416,26,1686,47,2011,76,2010,81,1686,52,1416,32"/>
-<area shape="rect" title=" " alt="" coords="2226,79,2341,104"/>
-<area shape="poly" title=" " alt="" coords="1416,21,1771,39,1990,55,2213,76,2212,81,1990,60,1771,44,1415,26"/>
-<area shape="rect" title=" " alt="" coords="2365,79,2527,104"/>
-<area shape="poly" title=" " alt="" coords="1416,21,1829,40,2088,56,2351,76,2351,81,2087,61,1829,45,1416,27"/>
-<area shape="rect" title=" " alt="" coords="2552,79,2660,104"/>
-<area shape="poly" title=" " alt="" coords="1416,18,1628,22,1906,31,2219,49,2539,76,2538,81,2219,54,1905,37,1628,27,1416,23"/>
-<area shape="rect" title=" " alt="" coords="2684,79,2797,104"/>
-<area shape="poly" title=" " alt="" coords="1415,17,1649,20,1959,29,2311,47,2671,76,2670,81,2311,52,1959,34,1649,25,1415,22"/>
+<area shape="poly" title=" " alt="" coords="1482,28,1696,73,1695,78,1481,33"/>
+<area shape="rect" title=" " alt="" coords="1844,79,1955,104"/>
+<area shape="poly" title=" " alt="" coords="1509,28,1831,76,1830,81,1509,33"/>
+<area shape="rect" title=" " alt="" coords="1979,79,2135,104"/>
+<area shape="poly" title=" " alt="" coords="1536,28,1965,76,1964,81,1535,33"/>
+<area shape="rect" title=" " alt="" coords="2159,79,2290,104"/>
+<area shape="poly" title=" " alt="" coords="1560,25,1826,45,2146,76,2146,81,1826,50,1559,30"/>
+<area shape="rect" title=" " alt="" coords="2315,79,2492,104"/>
+<area shape="poly" title=" " alt="" coords="1560,24,1892,44,2301,76,2301,81,1891,50,1559,29"/>
+<area shape="rect" title=" " alt="" coords="2517,79,2631,104"/>
+<area shape="poly" title=" " alt="" coords="1560,19,1976,36,2237,52,2503,76,2503,81,2237,57,1976,41,1559,25"/>
+<area shape="rect" title=" " alt="" coords="2655,79,2818,104"/>
+<area shape="poly" title=" " alt="" coords="1559,20,2033,38,2334,54,2642,76,2641,81,2334,59,2032,43,1559,25"/>
+<area shape="rect" title=" " alt="" coords="2843,79,2951,104"/>
+<area shape="poly" title=" " alt="" coords="1560,17,1796,20,2109,28,2466,46,2829,76,2829,81,2465,51,2109,34,1795,25,1560,22"/>
+<area shape="rect" title=" " alt="" coords="2975,79,3088,104"/>
+<area shape="poly" title=" " alt="" coords="1560,16,1816,18,2162,26,2558,44,2761,58,2961,76,2961,81,2761,64,2557,50,2162,32,1816,23,1560,21"/>
 <area shape="rect" title=" " alt="" coords="465,299,542,324"/>
 <area shape="poly" title=" " alt="" coords="578,178,578,212,575,232,568,252,553,274,534,292,530,288,549,271,564,249,570,231,573,211,573,178"/>
 <area shape="rect" title=" " alt="" coords="479,225,554,251"/>
